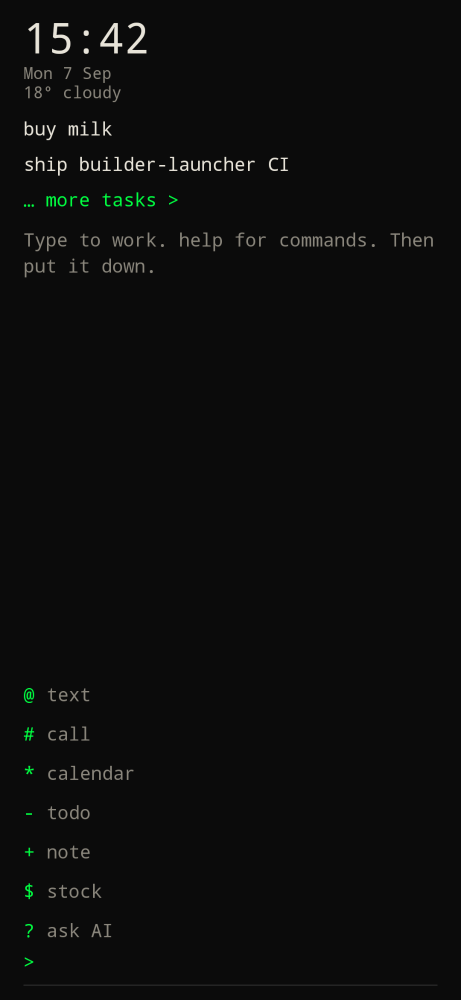
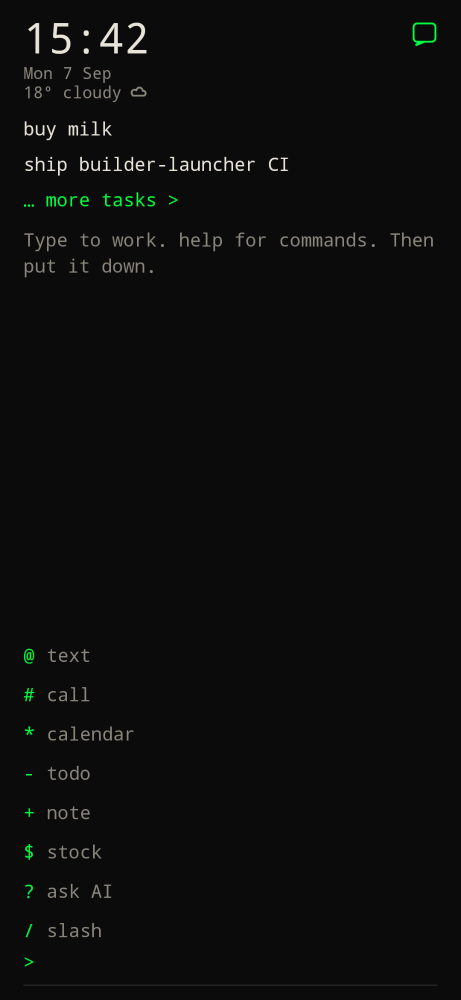
feat: add slash to the prefix command menu (#53)
Tap > and pick slash to open the slash command list,
same as typing /.

diff --git a/app/src/test/java/xyz/cdr/builderlauncher/commands/PrefixCommandsTest.kt b/app/src/test/java/xyz/cdr/builderlauncher/commands/PrefixCommandsTest.kt
@@ -11,13 +11,13 @@ class PrefixCommandsTest {
     fun findKnownGlyph() {
         assertEquals("text", PrefixCommands.find('@')?.label)
         assertEquals("ask AI", PrefixCommands.find('?')?.label)
+        assertEquals("slash", PrefixCommands.find('/')?.label)
         assertNull(PrefixCommands.find('>'))
     }
 
     @Test
     fun catalogCoversPrefixCommands() {
-        assertEquals(listOf('@', '#', '*', '-', '+', '$', '?'), PrefixCommands.all.map { it.glyph })
-        assertNull(PrefixCommands.find('/'))
+        assertEquals(listOf('@', '#', '*', '-', '+', '$', '?', '/'), PrefixCommands.all.map { it.glyph })
         assertTrue(PrefixCommands.isModePrompt('/'))
         assertFalse(PrefixCommands.isModePrompt('>'))
     }

diff --git a/app/src/main/java/xyz/cdr/builderlauncher/commands/PrefixCommands.kt b/app/src/main/java/xyz/cdr/builderlauncher/commands/PrefixCommands.kt
@@ -13,6 +13,7 @@ object PrefixCommands {
         PrefixCommand('+', "note"),
         PrefixCommand('$', "stock"),
         PrefixCommand('?', "ask AI"),
+        PrefixCommand('/', "slash"),
     )
 
     data class Mode(
@@ -31,8 +32,7 @@ object PrefixCommands {
 
     fun find(glyph: Char): PrefixCommand? = all.find { it.glyph == glyph }
 
-    fun isModePrompt(glyph: Char): Boolean =
-        find(glyph) != null || glyph == SlashCommands.PROMPT
+    fun isModePrompt(glyph: Char): Boolean = find(glyph) != null
 
     fun pick(current: Mode, glyph: Char): Mode = current.copy(prompt = glyph)
 

diff --git a/website/src/content/docs/use/commands.md b/website/src/content/docs/use/commands.md
@@ -15,6 +15,7 @@ Type on home, then Enter. Empty prefixes (`@` with no name, `pin` with no app) s
 | `$` | `$AAPL` or `$ apple` | Search and add a ticker to the [stocks](stocks/) list |
 | | `stocks` | Open all stocks. App search shows `… all stocks >` |
 | `?` | `?` then write | Full-screen AI [chat](ai/). Markdown answers. `<` home; provider mark opens Grok/ChatGPT/Claude/Hermes with the prompt; history lists past chats with a date and delete |
+| `/` | `/` then pick `settings` | Slash commands listed above the bar (apps, clock, help, hub, notes, settings, stocks, weather). Also in the [command menu](command-bar/) |
 | (none) | `Termux` | Search and launch apps |
 | | `pin Termux` / `unpin Termux` | Pin or unpin. Pins show as icons on home |
 | | `hub` / `notes` / `apps` / `stocks` / `clock` / `weather` / `settings` / `help` | Built-ins |

diff --git a/website/src/content/docs/use/command-bar.md b/website/src/content/docs/use/command-bar.md
@@ -23,7 +23,8 @@ The prompt is always at the bottom, just above the keyboard (or the hardware key
 | `+` | note |
 | `$` | stock |
 | `?` | ask AI |
+| `/` | slash |
 
-Picking a row sets the prompt glyph. Type the rest of the command in the field.
+Picking a row sets the prompt glyph. Type the rest of the command in the field. Pick **slash** to list slash commands above the bar.
 
 On hardware QWERTY, auto mode hides the software keyboard so the bar sits next to the keys. See [Keyboard](../configure/keyboard/).
